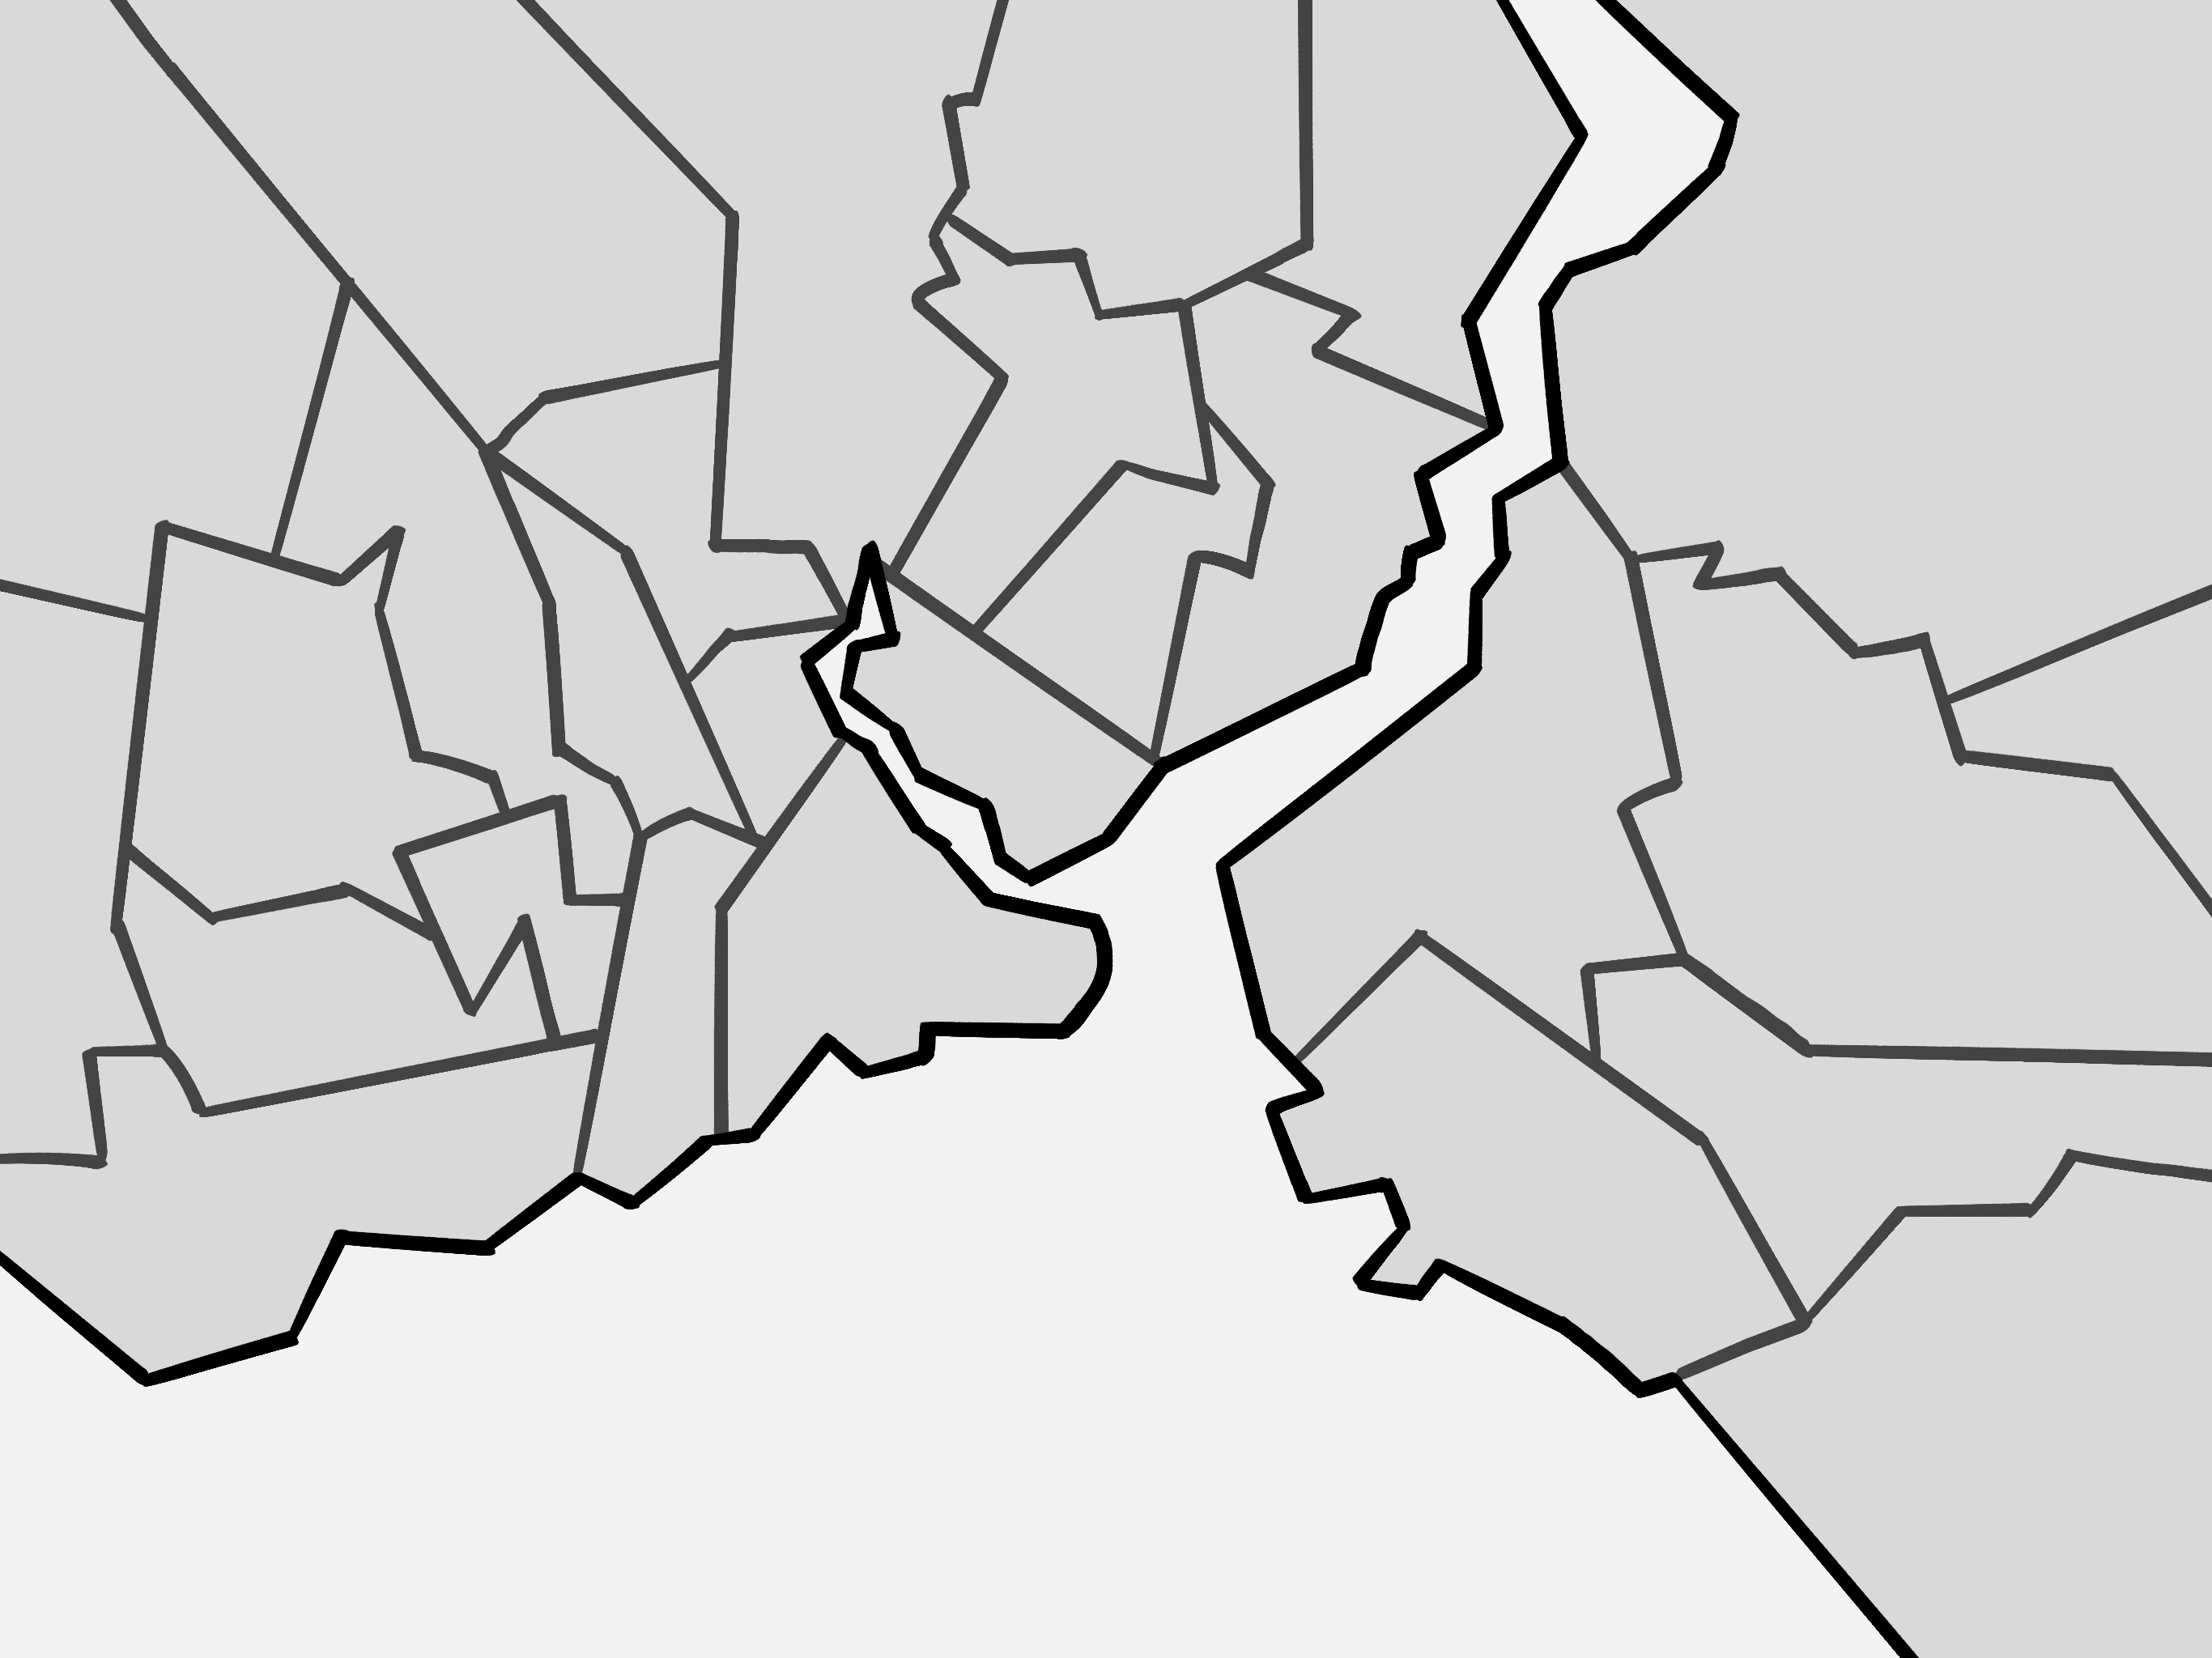
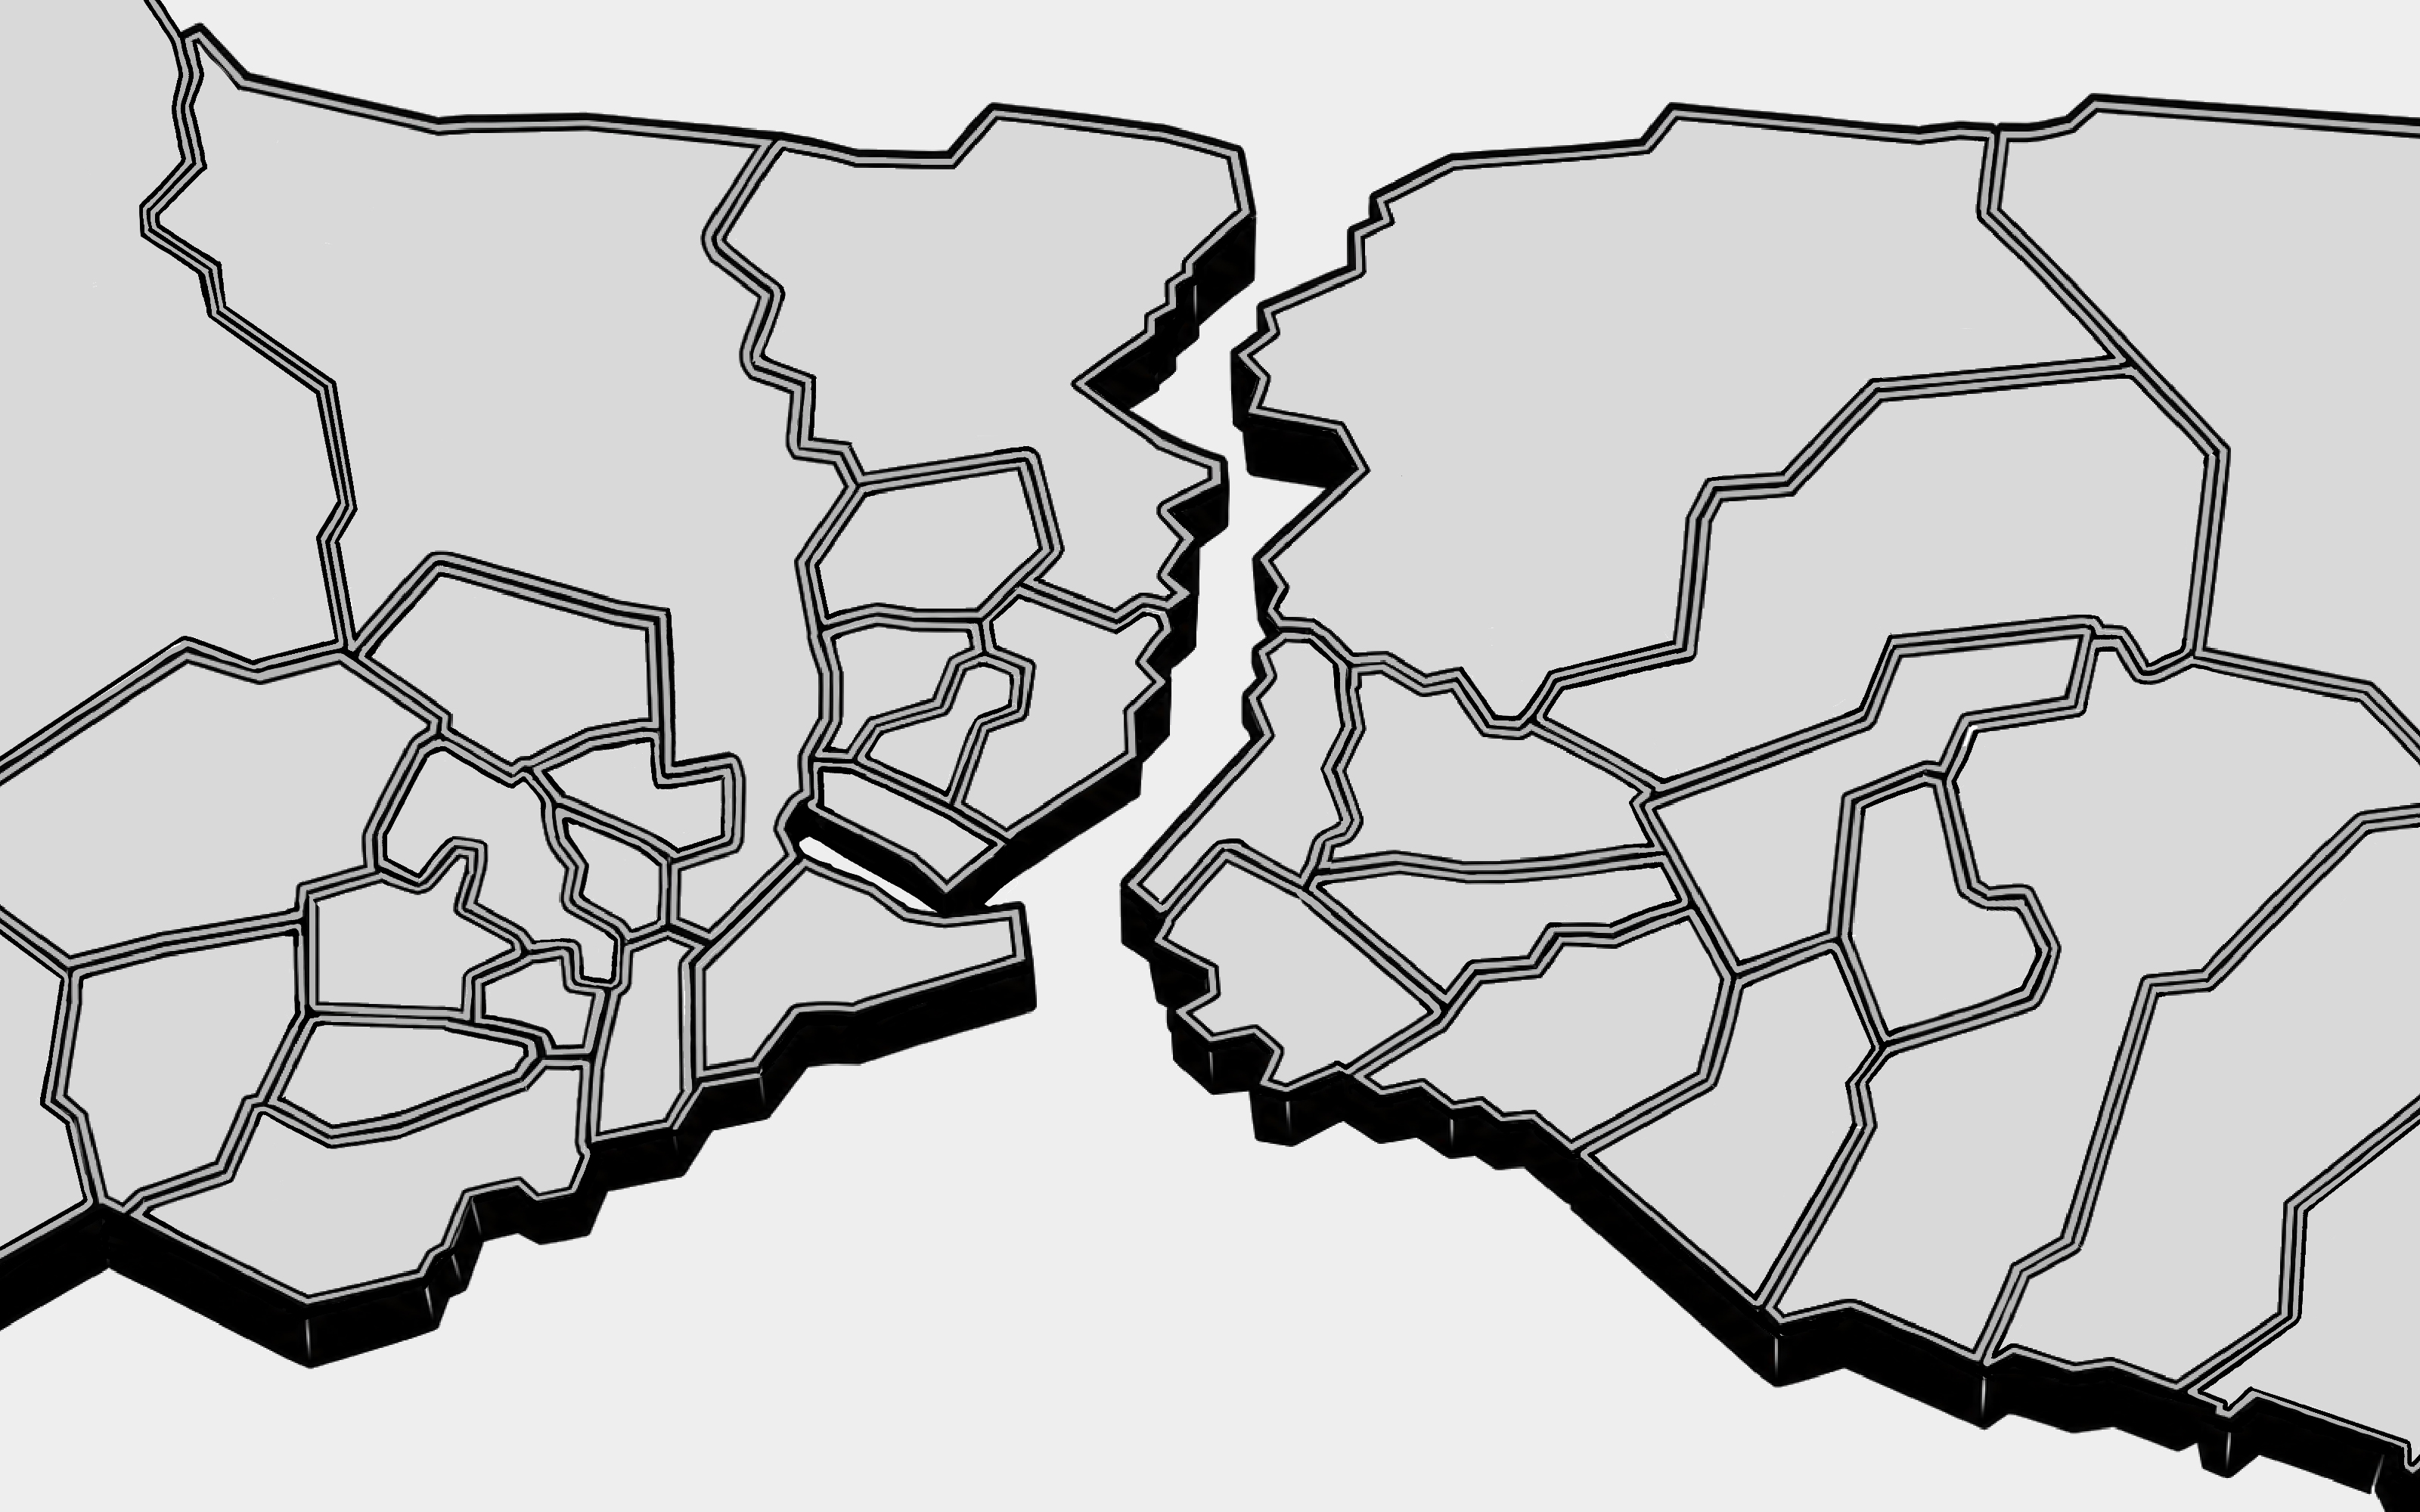
Replace map artwork and district boundaries with hand-drawn map
Swap the placeholder raster map for the new hand-illustrated version
and retrace all 25 neighborhood hit-regions to match its geometry
(viewBox now 3200x2000). The image is rendered instead of hidden, and
hover/active/flashing-news states now tint over the artwork rather
than flat-filling vector shapes.

Claude-Session: https://claude.ai/code/session_01CXT5J7SKEzK7cwyjTWiKa2

diff --git a/anahane.html b/anahane.html
@@ -384,30 +384,28 @@
 
     .neighborhood {
       cursor: pointer;
-      fill: var(--whisper);
-      stroke: var(--muted);
-      stroke-width: 1.4;
-      opacity: 1;
-      transition: fill 0.2s;
+      fill: transparent;
+      stroke: transparent;
+      stroke-width: 3;
+      transition: fill 0.2s, stroke 0.2s;
       pointer-events: all;
     }
 
-    /* Hover: warm tan */
-    .neighborhood:hover { fill: var(--paper-banner); }
-    /* Clicked/active: medium brown */
+    /* Hover: dim the artwork under the cursor */
+    .neighborhood:hover { fill: rgba(20, 14, 8, 0.18); }
+    /* Clicked/active: darker tint + outline */
     .neighborhood.active {
-      fill: var(--brown-1);
+      fill: rgba(20, 14, 8, 0.32);
       stroke: var(--accent);
-      stroke-width: 1.4;
     }
-    /* Home neighborhood: darker brown, always visible */
+    /* Home neighborhood: always-visible dashed outline over the art */
     .neighborhood.home {
-      fill: var(--brown-2);
       stroke: var(--brown-4);
-      stroke-width: 1.6;
+      stroke-width: 4;
+      stroke-dasharray: 10 6;
     }
-    .neighborhood.home:hover { fill: var(--accent-2); }
-    .neighborhood.home.active { fill: var(--accent-2); stroke: var(--brown-4); }
+    .neighborhood.home:hover { fill: rgba(20, 14, 8, 0.24); }
+    .neighborhood.home.active { fill: rgba(20, 14, 8, 0.38); stroke: var(--brown-4); stroke-dasharray: none; }
 
     .map-label {
       text-align: center;
@@ -640,23 +638,23 @@
 
     /* Flashing neighborhood with breaking news */
     @keyframes flash-nb {
-      0%, 100% { fill: var(--whisper); }
-      50% { fill: var(--ink-red); }
+      0%, 100% { fill: rgba(164, 50, 43, 0.1); }
+      50% { fill: rgba(164, 50, 43, 0.6); }
     }
     .neighborhood.flashing-news {
       animation: flash-nb 1.2s ease-in-out infinite;
       stroke: var(--ink-red);
-      stroke-width: 2;
+      stroke-width: 3;
     }
     .neighborhood.flashing-news:hover {
       animation: none;
-      fill: var(--ink-red);
+      fill: rgba(164, 50, 43, 0.5);
     }
     .neighborhood.flashing-news.active {
       animation: none;
-      fill: var(--ink-red);
+      fill: rgba(164, 50, 43, 0.5);
       stroke: var(--ink-deep);
-      stroke-width: 2;
+      stroke-width: 3;
     }
 
     /* Flashing news card in feed when its neighborhood is selected */
@@ -1221,40 +1219,37 @@
 
   <main>
     <section class="map-panel">
-      <svg viewBox="0 0 2739.5 2057.29" xmlns="http://www.w3.org/2000/svg">
-          <image href="assets/istanbul-map.png" x="0" y="0" width="2739.5" height="2057.29" style="display:none"/>
+      <svg viewBox="0 0 3200 2000" xmlns="http://www.w3.org/2000/svg" preserveAspectRatio="xMidYMid slice">
+          <image href="assets/istanbul-map.png" x="0" y="0" width="3200" height="2000"/>
 
-          <g id="bakirkoy" class="neighborhood" data-name="Bakırköy"><polyline points="7.5 1444.08 0 1560.36 187.31 1710.2 368.55 1662.41 424.31 1540.92 609.53 1544.9 720.43 1464.68 749.04 1288.06 253.03 1385.57 211.21 1309.89 115.8 1308 132 1444.08 7.5 1444.08"/></g>
-          <g id="bayrampasa" class="neighborhood" data-name="Bayrampaşa"><polyline points="614.76 566.04 685.8 754.32 693.43 929.96 769.8 975.78 798.69 1045.19 862.06 1014.89 937.81 1036.88 787.62 685.59 614.76 566.04"/></g>
-          <g id="bahcelievler" class="neighborhood" data-name="Bahçelievler"><polyline points="690.72 1297.51 253.03 1385.57 211.21 1309.89 151.44 1152.48 164.47 1056.56 266.05 1143.1 433.49 1109.24 533.19 1156.27 588.25 1258.11 653.59 1160.03 690.72 1297.51"/></g>
+          <g id="bakirkoy" class="neighborhood" data-name="Bakırköy"><polygon points="407.3 1730.4 163.56 1609.56 190.89 1587 298.87 1548.05 335.09 1461.94 350.13 1460.57 436.56 1504.37 526.05 1490.6 691.28 1427.49 715.37 1394.79 781.35 1399.38 779.05 1511.25 788.23 1521.58 763.56 1579.52 707.91 1591.57 683.24 1572.06 625.3 1586.41 598.34 1652.38 576.54 1663.85 564.49 1690.24 407.3 1730.4"/></g>
+          <g id="bayrampasa" class="neighborhood" data-name="Bayrampaşa"><polygon points="884.12 1222.81 884.71 1137.21 864.64 1120.09 791.44 1086.43 731.81 1063.41 737.19 1110.73 762.98 1146.44 754.83 1186.21 760.01 1197.03 811.51 1226.94 827.45 1247.01 878.81 1229.3 884.12 1222.81"/></g>
+          <g id="bahcelievler" class="neighborhood" data-name="Bahçelievler"><polygon points="700.22 1416.9 715.37 1394.79 710.13 1373.17 596.94 1348.13 406.28 1340.5 350.13 1460.57 436.56 1504.37 526.05 1490.6 691.28 1427.49 700.22 1416.9"/></g>
           <g id="sisli" class="neighborhood" data-name="Şişli">
-            <polygon points="1218.05 133.39 1250.78 7.53 1627.02 16.82 1627.02 316.77 1476.39 397.25 1367.17 404.8 1345.4 329.81 1258.31 334.65 1178.47 281.42 1200.43 251.69 1185.33 140.94 1218.05 133.39"/>
-            <polyline points="1497.24 518.39 1509.91 620.11 1398.62 591.08 1217.18 799.14 1439.35 952.19 1490.29 703.79 1564.45 720.01 1576.79 608.58 1497.24 518.39"/>
+            <polygon points="1250.3 1064.79 1256.06 1067.27 1298.04 958.51 1347.1 940.27 1353.39 884.3 1302.63 863.06 1266.21 880.37 1245.31 934.71 1158.73 959.79 1130.07 1005.76 1250.3 1064.79"/>
+            <polygon points="1307.37 812.39 1295.47 820.66 1203.05 819.56 1160.84 813.19 1085.89 830.81 1066.94 745.91 1136.24 642.72 1352.76 608.52 1361.52 613.3 1391.03 727.92 1307.37 812.39"/>
           </g>
-          <g id="eyupsultan" class="neighborhood" data-name="Eyüpsultan">
-            <polyline points="656.88 9.29 1247.69 9.83 1212.18 133.66 1179.4 136.85 1198.07 237.46 1160.73 299.37 1187.59 354.91 1140.7 376.77 1245.41 472.83 1109.61 720.57 1090.02 713.5 1084.88 687.48 1075.92 695.09 1057.58 777.74 1005.04 686.34 890.31 681.33 911.25 275.7 662.84 16.82"/>
-            <polyline points="1056.04 782.23 908.01 795.67 854.08 852.08 937.2 1044.55 956.75 1051.75 1051.01 918.87 1004.5 824.86 1056.04 782.23"/>
-          </g>
-          <g id="gop" class="neighborhood" data-name="Gaziosmanpaşa"><polyline points="621.04 563.89 682.08 502.85 897.47 461.96 885.37 685.98 997.67 692.89 1043.74 772.36 904.95 794.82 857.15 842.62 787.62 685.59"/></g>
-          <g id="esenler" class="neighborhood" data-name="Esenler"><polygon points="780.76 1111.16 718.97 1113.36 702.42 994.19 637.31 1014.06 615.25 962.19 524.76 936.82 480.63 755.85 506.01 652.13 426.56 721.65 354.84 697.37 437.59 369.65 603.11 564.41 685.8 754.32 691.38 937.37 762 974.88 789.59 1043.3 780.76 1111.16"/></g>
-          <g id="bagcilar" class="neighborhood" data-name="Bağcılar"><polyline points="206.52 660 164.47 1056.56 266.05 1143.1 430.94 1101.98 533.19 1156.27 503.13 1064.22 633.53 1020.41 617.01 966.92 522.97 943.63 475.6 755.5 499.96 658.05 429.58 727.07 206.52 660"/></g>
-          <g id="basaksehir" class="neighborhood" data-name="Başakşehir"><polygon points="7.5 9.29 154.68 9.29 433.32 361.92 345.84 702.12 206.52 660 190.32 770.16 7.5 731.28 7.5 9.29"/></g>
-          <g id="kucukcekmece" class="neighborhood" data-name="Küçükçekmece"><polygon points="7.5 1444.08 132 1444.08 115.8 1308 220.41 1308 151.44 1152.48 190.32 770.16 7.5 731.28 7.5 1444.08"/></g>
-          <g id="sultangazi" class="neighborhood" data-name="Sultangazi"><polygon points="656.88 9.29 916.08 277.68 899.99 455.88 679.56 498 614.76 566.04 154.68 9.29 656.88 9.29"/></g>
-          <g id="uskudar" class="neighborhood" data-name="Üsküdar"><polygon points="1518.66 1080.88 1830.23 833 1830.23 740.99 1867.41 693.19 1858.56 622.38 1934.68 579.89 2023.2 700.27 2078.07 974.67 2012.57 1006.53 2088.7 1194.18 1971.86 1206.57 1980.71 1326.95 1761.19 1166.28 1605.41 1326.95 1562.92 1282.7 1518.66 1080.88"/></g>
-          <g id="kadikoy" class="neighborhood" data-name="Kadıköy"><polygon points="1578.85 1378.29 1617.8 1488.05 1718.71 1472.12 1741.72 1523.46 1686.84 1594.27 1759.42 1604.89 1784.21 1573.02 1938.22 1647.38 2028.51 1725.27 2239.17 1640.3 2109.94 1414.76 1761.19 1166.28 1605.41 1326.95 1631.96 1358.82 1578.85 1378.29"/></g>
-          <g id="maltepe" class="neighborhood" data-name="Maltepe"><polygon points="2739.5 1463.89 2564.43 1437.18 2514.35 1505.62 2352.43 1505.62 2239.17 1640.3 2074.59 1706.68 2360.77 2057.29 2739.5 2057.29 2739.5 1463.89"/></g>
-          <g id="umraniye" class="neighborhood" data-name="Ümraniye"><polygon points="2129.44 686.63 2110.15 733.48 2206.61 710.06 2297.57 816.17 2383.01 799.63 2429.86 940.2 2617.28 965 2739.5 1130.37 2739.5 1315.32 2239.17 1303.63 2088.7 1194.18 2012.57 1006.53 2078.07 974.67 2023.2 700.27 2129.44 686.63"/></g>
-          <g id="cekmekoy" class="neighborhood" data-name="Çekmeköy"><polygon points="2739.5 742.25 2408.24 875.34 2429.86 940.2 2617.28 965 2739.5 1130.37 2739.5 742.25"/></g>
-          <g id="beykoz" class="neighborhood" data-name="Beykoz"><polygon points="1992.52 9.29 2146.49 154.73 2125.49 222.38 2025.18 315.69 1943.53 341.35 1917.87 386.92 1934.68 579.89 2023.2 700.27 2129.44 686.63 2110.15 733.48 2206.61 710.06 2297.57 816.17 2383.01 799.63 2408.24 875.34 2739.5 742.25 2739.5 9.29 1992.52 9.29"/></g>
-          <g id="sariyer" class="neighborhood" data-name="Sarıyer"><polygon points="1621.06 9.29 1621.06 309.24 1558.49 346.32 1676.68 399.62 1637.28 442.31 1852.81 531.72 1822.68 404.26 1961.73 174.83 1866.71 9.29 1621.06 9.29"/></g>
-          <g id="besiktas" class="neighborhood" data-name="Beşiktaş"><polygon points="1437.98 953.42 1484.33 696.25 1558.49 712.48 1578.85 603.56 1491.28 510.86 1470.43 389.72 1558.49 346.32 1676.68 399.62 1637.28 442.31 1852.81 531.72 1760.11 594.29 1783.28 675.4 1750.84 686.63 1743.89 731.28 1709.93 742.25 1688.27 833 1437.98 953.42"/></g>
-          <g id="beyoglu" class="neighborhood" data-name="Beyoğlu"><polygon points="1084.01 709.2 1110.23 800.97 1061.53 814.08 1052.17 875.34 1110.23 917.79 1143.94 967.66 1224.47 1000.97 1241.33 1066.93 1282.53 1087.68 1373.5 1048.2 1437.98 953.42 1084.01 709.2"/></g>
-          <g id="gungoren" class="neighborhood" data-name="Güngören"><polygon points="699.47 1001.07 715.25 1119.44 778.38 1117.86 749.04 1288.06 697.89 1296.2 653.7 1147.85 587.42 1250.43 503.13 1064.22 699.47 1001.07"/></g>
-          <g id="kagithane" class="neighborhood" data-name="Kağıthane"><polygon points="1112.03 716.61 1211.22 791.61 1392.66 583.55 1503.95 612.58 1470.43 389.72 1361.21 397.27 1339.44 322.28 1252.35 327.11 1172.51 273.89 1160.42 295.66 1182.19 351.31 1138.65 375.5 1242.67 479.53 1112.03 716.61"/></g>
-          <g id="atasehir" class="neighborhood" data-name="Ataşehir"><polygon points="2739.5 1315.32 2239.17 1303.63 2088.7 1194.18 1971.86 1206.57 1980.71 1326.95 2109.94 1414.76 2239.17 1639.24 2352.43 1505.62 2514.35 1505.62 2564.43 1437.18 2739.5 1463.89 2739.5 1315.32"/></g>
-          <g id="zeytinburnu" class="neighborhood" data-name="Zeytinburnu"><polygon points="798.69 1045.19 862.06 1014.89 951.22 1052.78 899.99 1130.98 899.99 1414.76 874.96 1420.83 786.74 1499.31 720.43 1464.68 798.69 1045.19"/></g>
-          <g id="fatih" class="neighborhood" data-name="Fatih"><path d="M1053.98,910.62l-153.99,218.9v291.38s37.69-5.13,37.69-5.13l92.72-116.08,46.64,37.39,76.81-18.98v-35.16l170.09,4.46s83.4-60.83,41.15-142.31l-132.78-26.23-56.51-68.09-29.08-16.74-66.94-106.6"/></g>
+          <g id="eyupsultan" class="neighborhood" data-name="Eyüpsultan"><polygon points="263.82 35.55 240.67 49.67 252.52 95.97 241.23 142.84 257.04 215.12 196.06 280.05 199.44 304.9 278.86 356.58 289.55 414.05 429.98 511.94 459.76 670.81 433.22 716.55 458.63 862.24 468.8 867.89 573.26 747.61 581.17 743.66 865.77 820.45 869.15 824.97 877.06 1024.3 883.27 1027.13 965.72 1013.01 971.22 1027.59 967.73 1113.34 885.97 1140.76 884.52 1227.24 938.19 1250.24 1055.97 1137.77 1059.46 1127.3 1040.52 1097.39 1056.97 1064.49 1075.42 1052.52 1073.35 999.79 1099.62 952.62 1099.62 886.94 1084.39 843.63 1085.89 830.81 1066.94 745.91 1136.24 642.72 1112.31 598.34 1056.47 593.86 1062.45 508.61 998.14 484.18 993.15 472.71 1021.57 388.46 947.79 330.62 943.8 314.67 1027.06 179.57 780.64 152.72 577.7 160.76 321.51 99.47 263.82 35.55"/></g>
+          <g id="gop" class="neighborhood" data-name="Gaziosmanpaşa"><polygon points="871.3 965.41 849.23 965.41 779.21 977.58 697.78 1017.16 734.71 1063.62 809.66 1093.27 858.37 1116.1 889.57 1139.69 967.73 1113.34 972.53 1067.39 970.24 1024.01 965.72 1013.01 877.06 1024.3 871.3 965.41"/></g>
+          <g id="esenler" class="neighborhood" data-name="Esenler"><polygon points="677.18 1026.42 692.56 1017 701.49 1019.97 734.71 1063.62 732.24 1073.53 737.19 1110.73 762.98 1146.44 755.54 1189.59 760.01 1197.03 815.55 1228.77 824.48 1241.66 820.88 1298.55 804.78 1312.35 799.19 1306.63 761.99 1301.67 757.53 1294.23 753.76 1256.31 739.72 1253.8 693.06 1261 686.29 1239.18 613.21 1201.49 626.1 1158.34 631.06 1125.11 602.39 1120.97 563.71 1165.09 550.22 1171.73 497.16 1145.94 497.1 1099.59 554.69 986.25 579.64 973.29 677.18 1026.42"/></g>
+          <g id="bagcilar" class="neighborhood" data-name="Bağcılar"><polygon points="602.39 1120.97 563.71 1165.09 552.82 1172.17 503.25 1149.29 406.26 1181.02 406.28 1340.5 596.94 1348.13 623.09 1354.12 627.45 1294.2 696.09 1262.06 686.29 1239.18 612.2 1199.41 628.54 1152.02 628.54 1124.24 602.39 1120.97"/></g>
+          <g id="basaksehir" class="neighborhood" data-name="Başakşehir"><polygon points="397.95 1218.13 220.69 1248.05 92.18 1283.5 -5.31 1216.47 -4.21 1018.72 246.17 860.29 335.36 888.54 452.79 860.85 580.19 949.48 579.64 973.29 554.16 988.25 497.1 1099.59 499.32 1154.43 406.26 1181.02 404.04 1215.92 397.95 1218.13"/></g>
+          <g id="kucukcekmece" class="neighborhood" data-name="Küçükçekmece"><polygon points="163.56 1609.56 190.89 1587 298.87 1548.05 335.09 1461.94 350.13 1460.57 406.85 1343.71 404.04 1215.92 216.18 1248.72 92.18 1283.5 92.49 1326.63 71.09 1453.96 99.21 1478.86 128.12 1594.52 163.56 1609.56"/></g>
+          <g id="sultangazi" class="neighborhood" data-name="Sultangazi"><polygon points="869.43 832.07 874.64 969.17 849.23 965.41 779.21 977.58 697.78 1017.16 692.56 1017 677.18 1026.42 579.64 973.29 580.19 949.48 468.8 867.89 573.26 747.61 588.3 745.3 807.83 808.64 865.77 820.45 869.43 832.07"/></g>
+          <g id="uskudar" class="neighborhood" data-name="Üsküdar"><polygon points="1485.47 1170.59 1665.77 972.35 1645.01 922.32 1670.49 894 1660.11 860.96 1690.32 834.53 1731.85 834.53 1786.61 880.79 1783.77 910.99 1791.33 960.08 1764.89 1015.78 1788.3 1084.32 1777.49 1103.09 1750.74 1112.77 1741.07 1152.03 1725.13 1177.07 1627.26 1125.86 1614.74 1124.72 1539.62 1212.92 1485.47 1170.59"/></g>
+          <g id="kadikoy" class="neighborhood" data-name="Kadıköy"><polygon points="1521.98 1245.36 1540.19 1210.08 1614.74 1124.72 1630.67 1124.72 1729.69 1177.07 1911.78 1332.42 1900.97 1353.48 1783.18 1424.04 1770.66 1419.49 1701.8 1447.94 1661.4 1433.71 1680.75 1391.03 1656.28 1369.98 1598.24 1381.36 1549.87 1338.11 1595.96 1311.94 1594.25 1283.48 1521.98 1245.36"/></g>
+          <g id="maltepe" class="neighborhood" data-name="Maltepe"><polygon points="1823.01 1451.92 1783.18 1424.04 1903.25 1349.49 1951.62 1286.9 2029.58 1279.5 2058.6 1237.39 2134.28 1237.39 2240.13 1198.13 2294.75 1293.16 2257.77 1429.16 2077.95 1527.04 2023.89 1483.22 1981.78 1487.2 1954.46 1465.01 1918.04 1471.84 1877.64 1442.25 1823.01 1451.92"/></g>
+          <g id="umraniye" class="neighborhood" data-name="Ümraniye"><polygon points="1753.4 1152.19 1738.1 1153.58 1750.74 1112.77 1777.49 1103.09 1788.3 1084.32 1764.89 1015.78 1791.33 960.08 1782.61 914.37 1786.61 880.79 1830.82 877.28 1883.61 907.45 1924.88 898.72 1966.95 961.43 2011.4 963.02 2024.9 951.9 2184.64 1041.49 2188.25 1054.38 2169.78 1064.76 2204.48 1127.62 2062.62 1146.63 1946.72 1154.51 1893.87 1148.48 1843.34 1141.99 1753.4 1152.19"/></g>
+          <g id="cekmekoy" class="neighborhood" data-name="Çekmeköy"><polygon points="2931.01 598.51 2901.24 861.9 2849.83 890.77 2829.98 890.77 2803.82 843.86 2768.65 842.96 2765.04 830.33 2750.6 827.62 2507.06 854.68 2466.37 950.84 2191.38 1054.35 2184.64 1041.49 2024.9 951.9 2056.65 900.31 2228.1 859.03 2246.36 686.79 2268.58 647.1 2363.83 640.75 2482.1 516.13 2800.77 485.68 2815.47 478.95 2931.01 598.51"/></g>
+          <g id="beykoz" class="neighborhood" data-name="Beykoz"><polygon points="1631.19 469.3 1672.47 436.75 1666.91 406.59 1788.36 354.2 1787.56 304.19 1823.28 289.11 1815.35 258.95 1918.53 208.15 2172.54 188.31 2210.64 142.27 2544.02 173.22 2591.64 164.49 2642.44 170.84 2629.74 281.18 2819.45 479.62 2804.37 485.17 2482.1 516.13 2363.83 640.75 2268.58 647.1 2246.36 686.79 2228.1 859.03 2056.65 900.31 2024.9 951.9 2011.4 963.02 1966.95 961.43 1924.88 898.72 1883.61 907.45 1828.84 876.5 1786.61 880.79 1731.85 834.53 1690.32 834.53 1670.88 809.03 1685.17 778.86 1661.36 736 1791.53 620.11 1763.75 569.31 1648.66 549.47 1663.74 501.84 1631.19 469.3"/></g>
+          <g id="sariyer" class="neighborhood" data-name="Sarıyer"><polygon points="1639.54 195.52 1656.79 284.4 1580.86 349.12 1581.72 364.65 1558.43 379.32 1560.15 408.65 1531.68 423.32 1531.68 444.03 1440.21 506.16 1490.26 544.13 1534.27 573.46 1618.83 608.84 1619.69 639.91 1548.93 676.15 1584.31 708.07 1550.66 758.12 1581.72 784.87 1548.93 809.03 1512.5 800.03 1477.91 823.3 1344.43 772.79 1391.03 727.92 1359.1 609.71 1347.88 607.12 1136.24 642.72 1112.31 598.34 1056.47 593.86 1062.45 508.61 998.14 484.18 993.15 472.71 1021.57 388.46 947.79 330.62 943.8 314.67 1027.06 179.57 1132.16 201.56 1254.69 205.01 1310.78 141.16 1538.58 168.77 1639.54 195.52"/></g>
+          <g id="besiktas" class="neighborhood" data-name="Beşiktaş"><polygon points="1506.84 1001.27 1336.41 1114.47 1256.06 1067.27 1298.04 958.51 1347.1 940.27 1353.39 884.3 1302.63 863.06 1295.47 820.66 1348.98 772.98 1477.91 823.3 1512.5 800.03 1544.57 809.46 1552.75 835.87 1520.04 874.86 1545.2 898.76 1503.69 942.16 1506.84 1001.27"/></g>
+          <g id="beyoglu" class="neighborhood" data-name="Beyoğlu"><polygon points="1072.75 1004.57 1073.35 1053.53 1064.99 1061.29 1065.58 1070.85 1200.53 1140.11 1250.09 1184.89 1333.08 1116.23 1256.06 1067.27 1130.07 1005.76 1072.75 1004.57"/></g>
+          <g id="gungoren" class="neighborhood" data-name="Güngören"><polygon points="753.76 1256.31 757.27 1296.93 762.29 1299.44 802.41 1308.47 784.36 1399.75 715.14 1398.25 710.13 1373.17 623.09 1354.12 627.45 1294.2 704.61 1260.32 739.72 1253.8 753.76 1256.31"/></g>
+          <g id="kagithane" class="neighborhood" data-name="Kağıthane"><polygon points="1073.35 999.79 1099.62 952.62 1099.62 886.94 1084.69 840.97 1085.89 830.81 1156.34 813.5 1210.08 820.07 1295.47 820.66 1302.63 863.06 1266.21 880.37 1245.31 934.71 1158.73 959.79 1127.68 1006.96 1072.75 1004.57 1073.35 999.79"/></g>
+          <g id="atasehir" class="neighborhood" data-name="Ataşehir"><polygon points="1944.52 1294.5 1912.13 1336.42 1725.13 1177.07 1738.1 1153.58 1843.34 1141.99 1946.72 1154.51 2076.94 1144.94 2204.48 1127.62 2240.13 1198.13 2134.28 1237.39 2058.6 1237.39 2029.58 1279.5 1951.62 1286.9 1944.52 1294.5"/></g>
+          <g id="zeytinburnu" class="neighborhood" data-name="Zeytinburnu"><polygon points="778.71 1517.07 885.29 1495.6 919.02 1440.39 914.42 1274.78 938.19 1250.24 884.52 1227.24 823.18 1248.71 820.88 1298.55 804.78 1312.35 784.36 1399.75 778.71 1517.07"/></g>
+          <g id="fatih" class="neighborhood" data-name="Fatih"><polygon points="1360.3 1271.98 1127.85 1342.73 1058.79 1343.57 1004.05 1414.32 918.14 1431.16 914.42 1274.78 1055.97 1137.77 1061.32 1132.18 1153.12 1170.92 1202.81 1204.61 1251.65 1209.66 1350.19 1196.18 1360.3 1271.98"/></g>
         </svg>
 
       <div class="map-label" id="map-label">İstanbul</div>